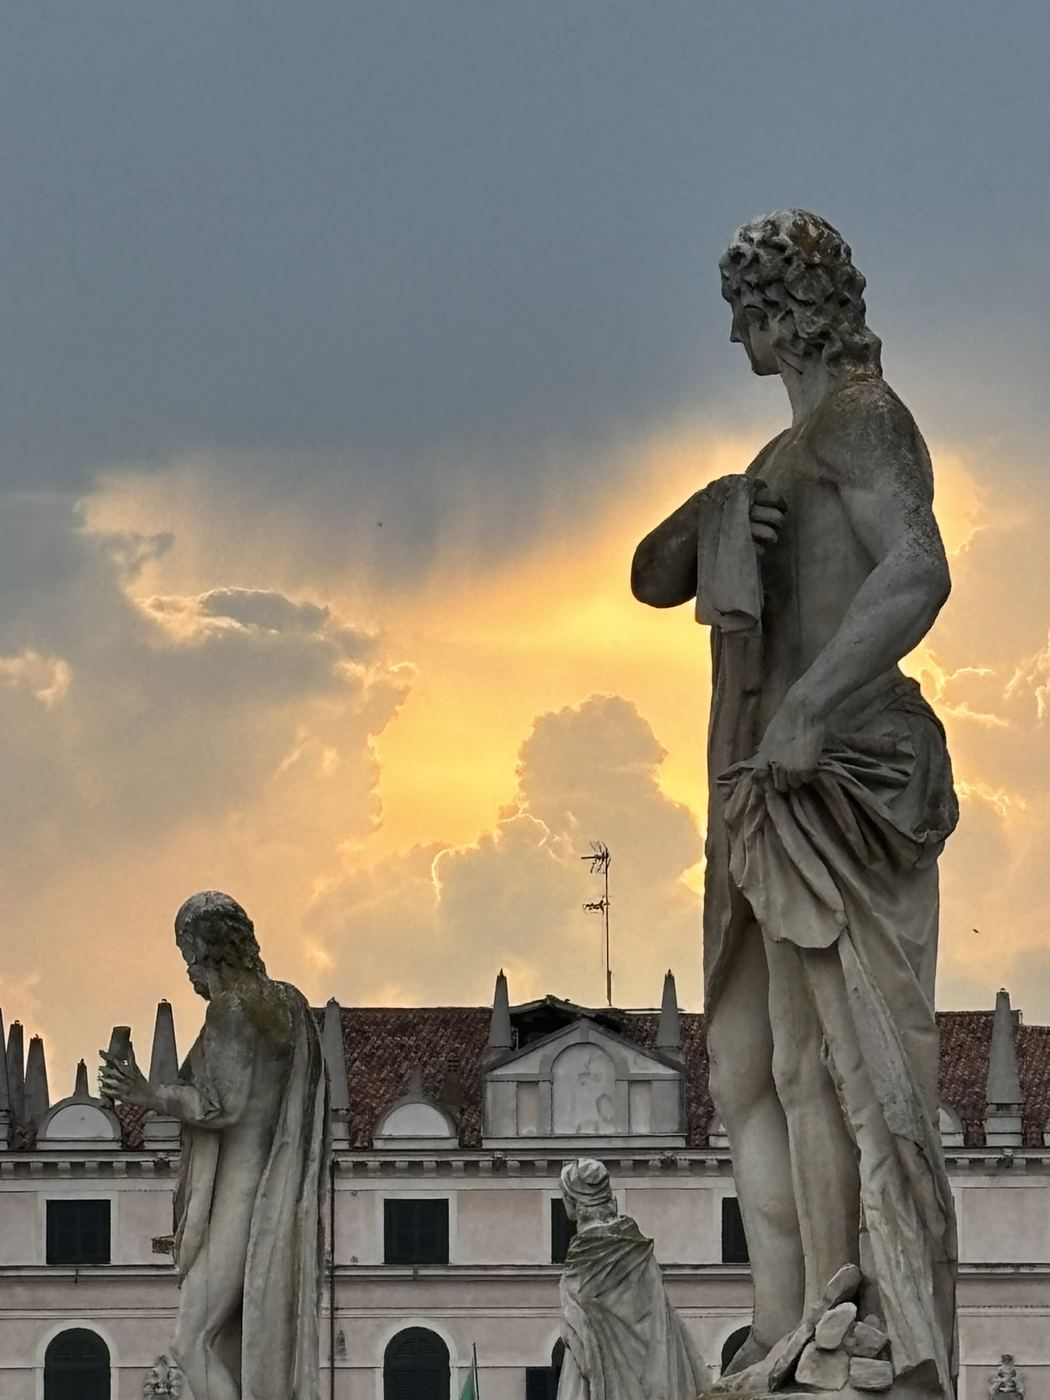
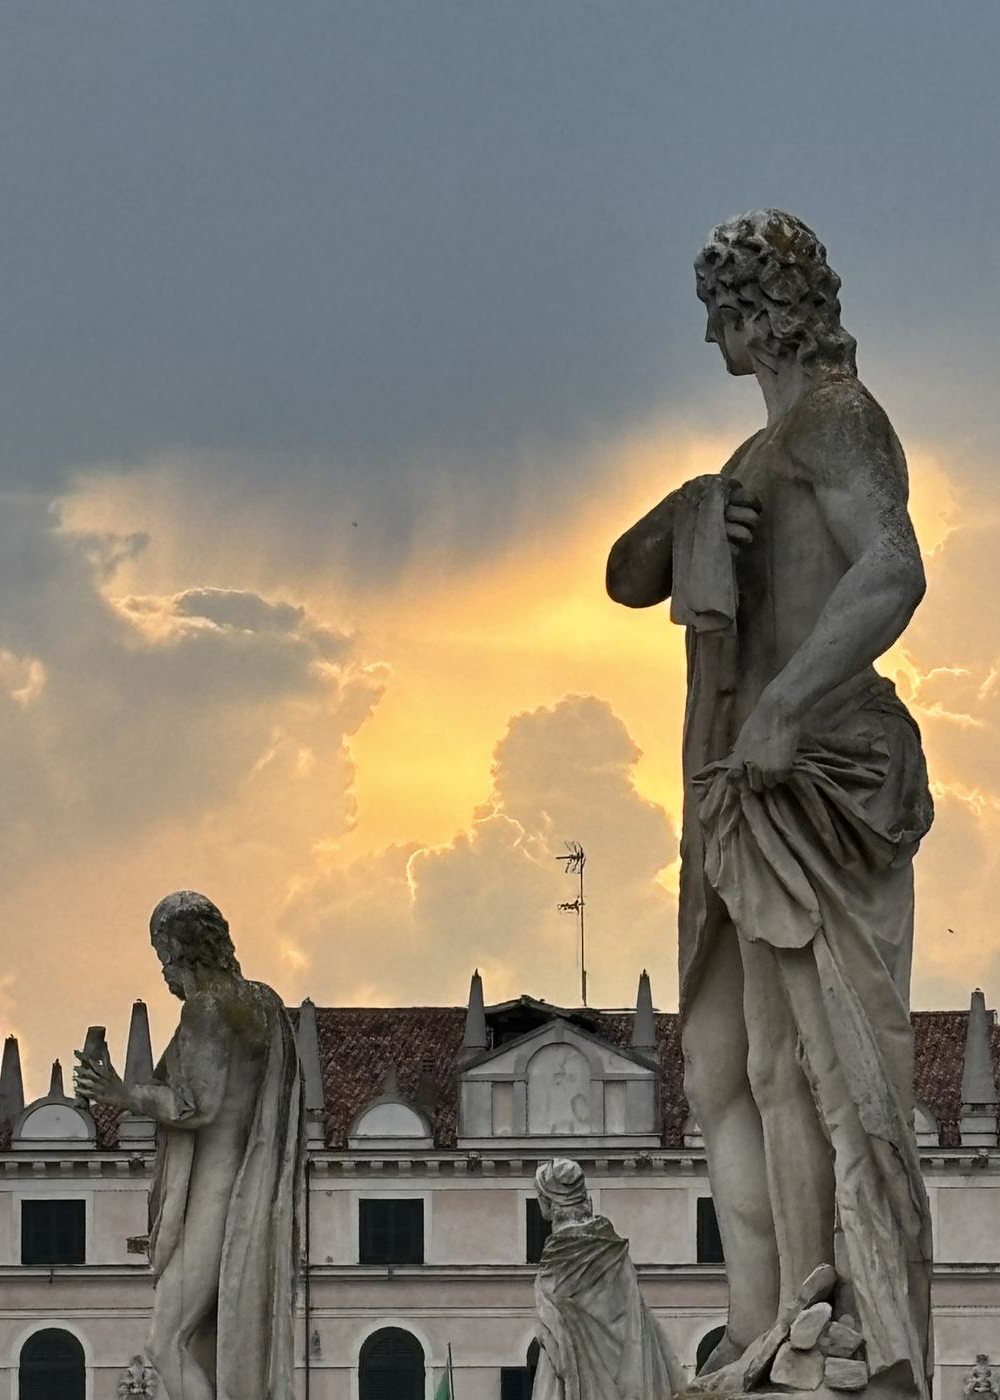
fixes

diff --git a/index.html b/index.html
@@ -952,10 +952,8 @@ l94 48 -24 19 c-127 100 -204 120 -299 77 -60 -27 -87 -53 -120 -120 -70 -137
     
     <div class="gallery">
     <figure class="inline-figure"><img src="img/day5/day5-19.jpg" loading="lazy" alt="Le Riserve Storiche"><figcaption>The Historical Reserves.</figcaption></figure>
-    </div>
-    
-    <div class="gallery">
     <figure class="inline-figure"><img src="img/day5/day5-20.jpg" loading="lazy" alt="Le Riserve Bottiglia"><figcaption>The bottles.</figcaption></figure>
+    <figure class="inline-figure"><img src="img/day5/day5-21.jpg" loading="lazy" alt="Le Riserve Bottiglia"><figcaption>Even more bottles.</figcaption></figure>
     </div>
     
     <p><h4>The Historical Reserves</h4></p>
